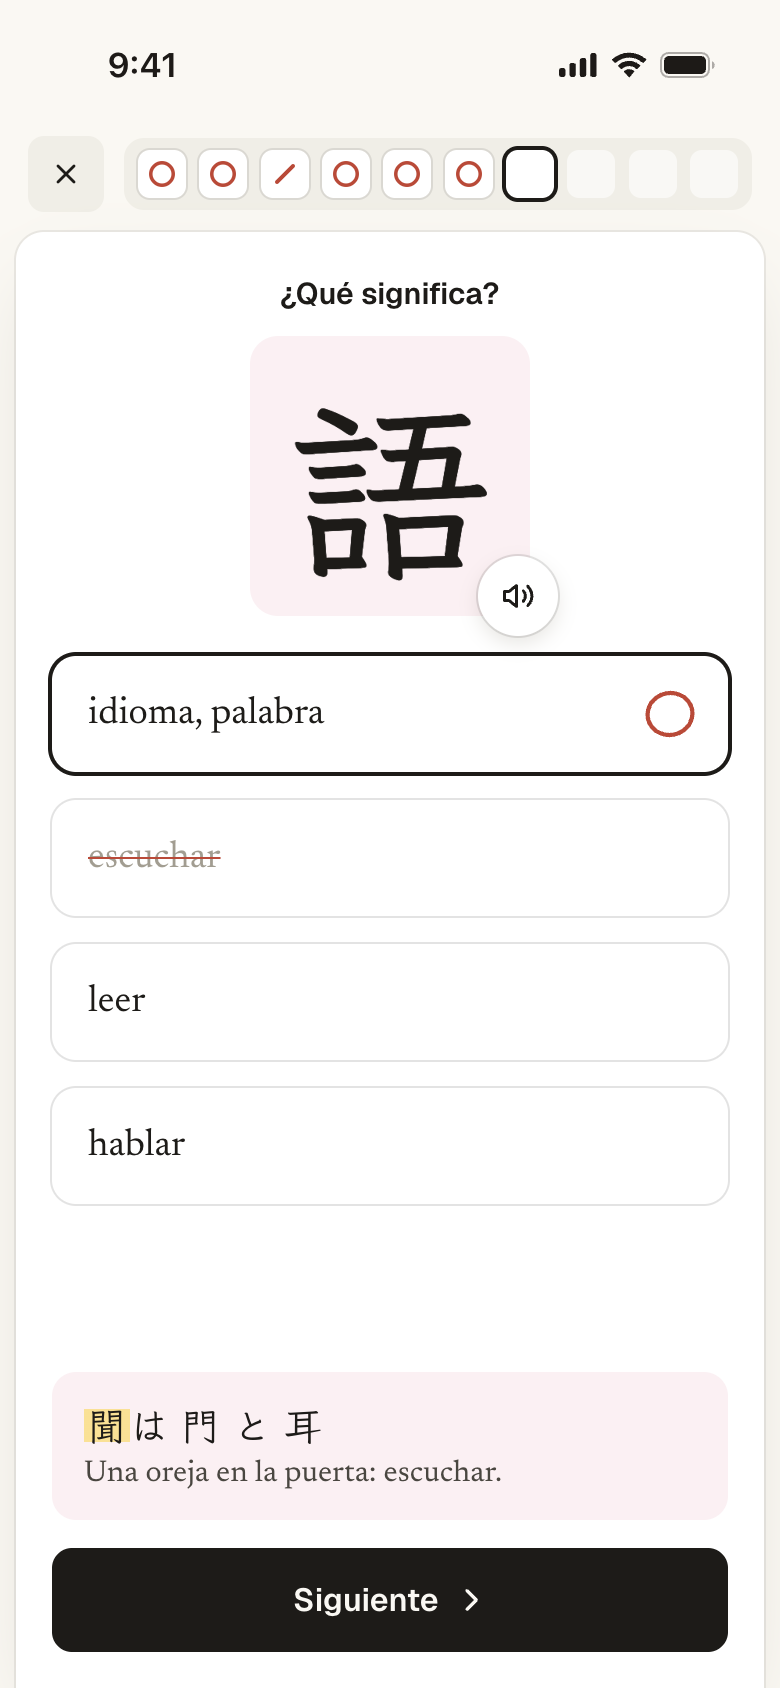
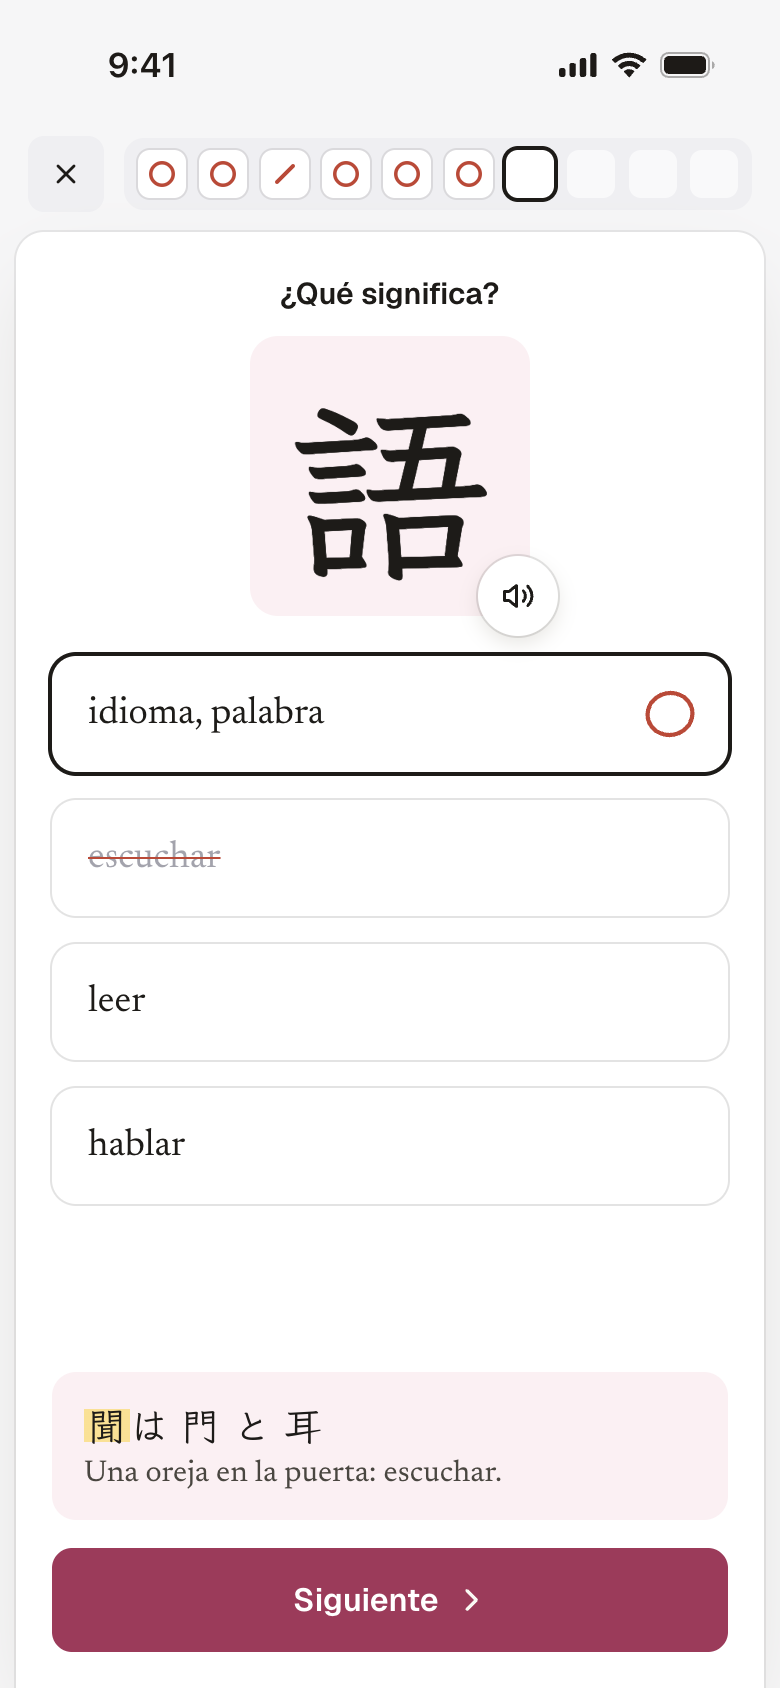
NOE-559 Paleta gris frío con botón vino en todas las pantallas

Changed region(s): [[0.0615, 0.8934, 0.9538, 0.9858]]

diff --git a/docs/DESIGN.md b/docs/DESIGN.md
@@ -21,10 +21,12 @@ los de repaso, examen, estados, cuenta y créditos. Exportes en `docs/rediseno/d
 
 | Token | Valor | Uso |
 |---|---|---|
-| papel | `#FAF8F3` | fondo de la app |
+| papel | `#F6F6F7` | fondo de la app (gris frío; nada de beige) |
 | hoja | `#FFFFFF` | superficie principal (hoja con radio 14 arriba) |
-| sombra | `#F1EEE6` | bandejas, chips neutros, paneles secundarios |
-| tinta | `#1D1B18` | texto principal y único acento de acción (botón principal negro) |
+| bandeja | `#EFEFF2` | bandejas, chips neutros, paneles secundarios |
+| riel | `#E2E2E7` | barras de progreso vacías, asas, puntos vacíos |
+| vino | `#A8325A` | botón principal y progreso; único color de acción |
+| tinta | `#1D1B18` | texto principal y anillo de selección |
 | tinta 2 | `#4A463F` | texto secundario |
 | tinta 3 | `#6B665C` | etiquetas pequeñas |
 | sakura | `#FDF0F3` fondo, `#FBE4EA` chip, `#C2456A` y `#9E2A44` tinta | color de Kanjy: kanji grande, repaso, «Otra vez», frases |
@@ -53,9 +55,9 @@ las secciones se separan con espacio y superficies.
 ## Componentes (pocos y reutilizados)
 
 - **Hoja:** superficie blanca bajo la barra, margen 8.
-- **Bandeja:** fondo sombra, radio 14, contiene casillas blancas de radio 8.
+- **Bandeja:** fondo bandeja, radio 14, contiene casillas blancas de radio 8.
 - **Casilla de kanji:** aprendido en tinta, de hoy con anillo negro de 2 px, por aprender desvanecido.
-- **Botón principal:** negro, radio 10 a 12, alto 52 a 54. Uno por pantalla.
+- **Botón principal:** vino `#A8325A` con texto blanco, radio 10 a 12, alto 52 a 54. Uno por pantalla.
 - **Botón secundario:** blanco con anillo de 1 px.
 - **Etiqueta:** pastel con tinta del mismo tono, radio 6.
 - **Barra:** botón de volver o cerrar a la izquierda, contexto mínimo a la derecha.
